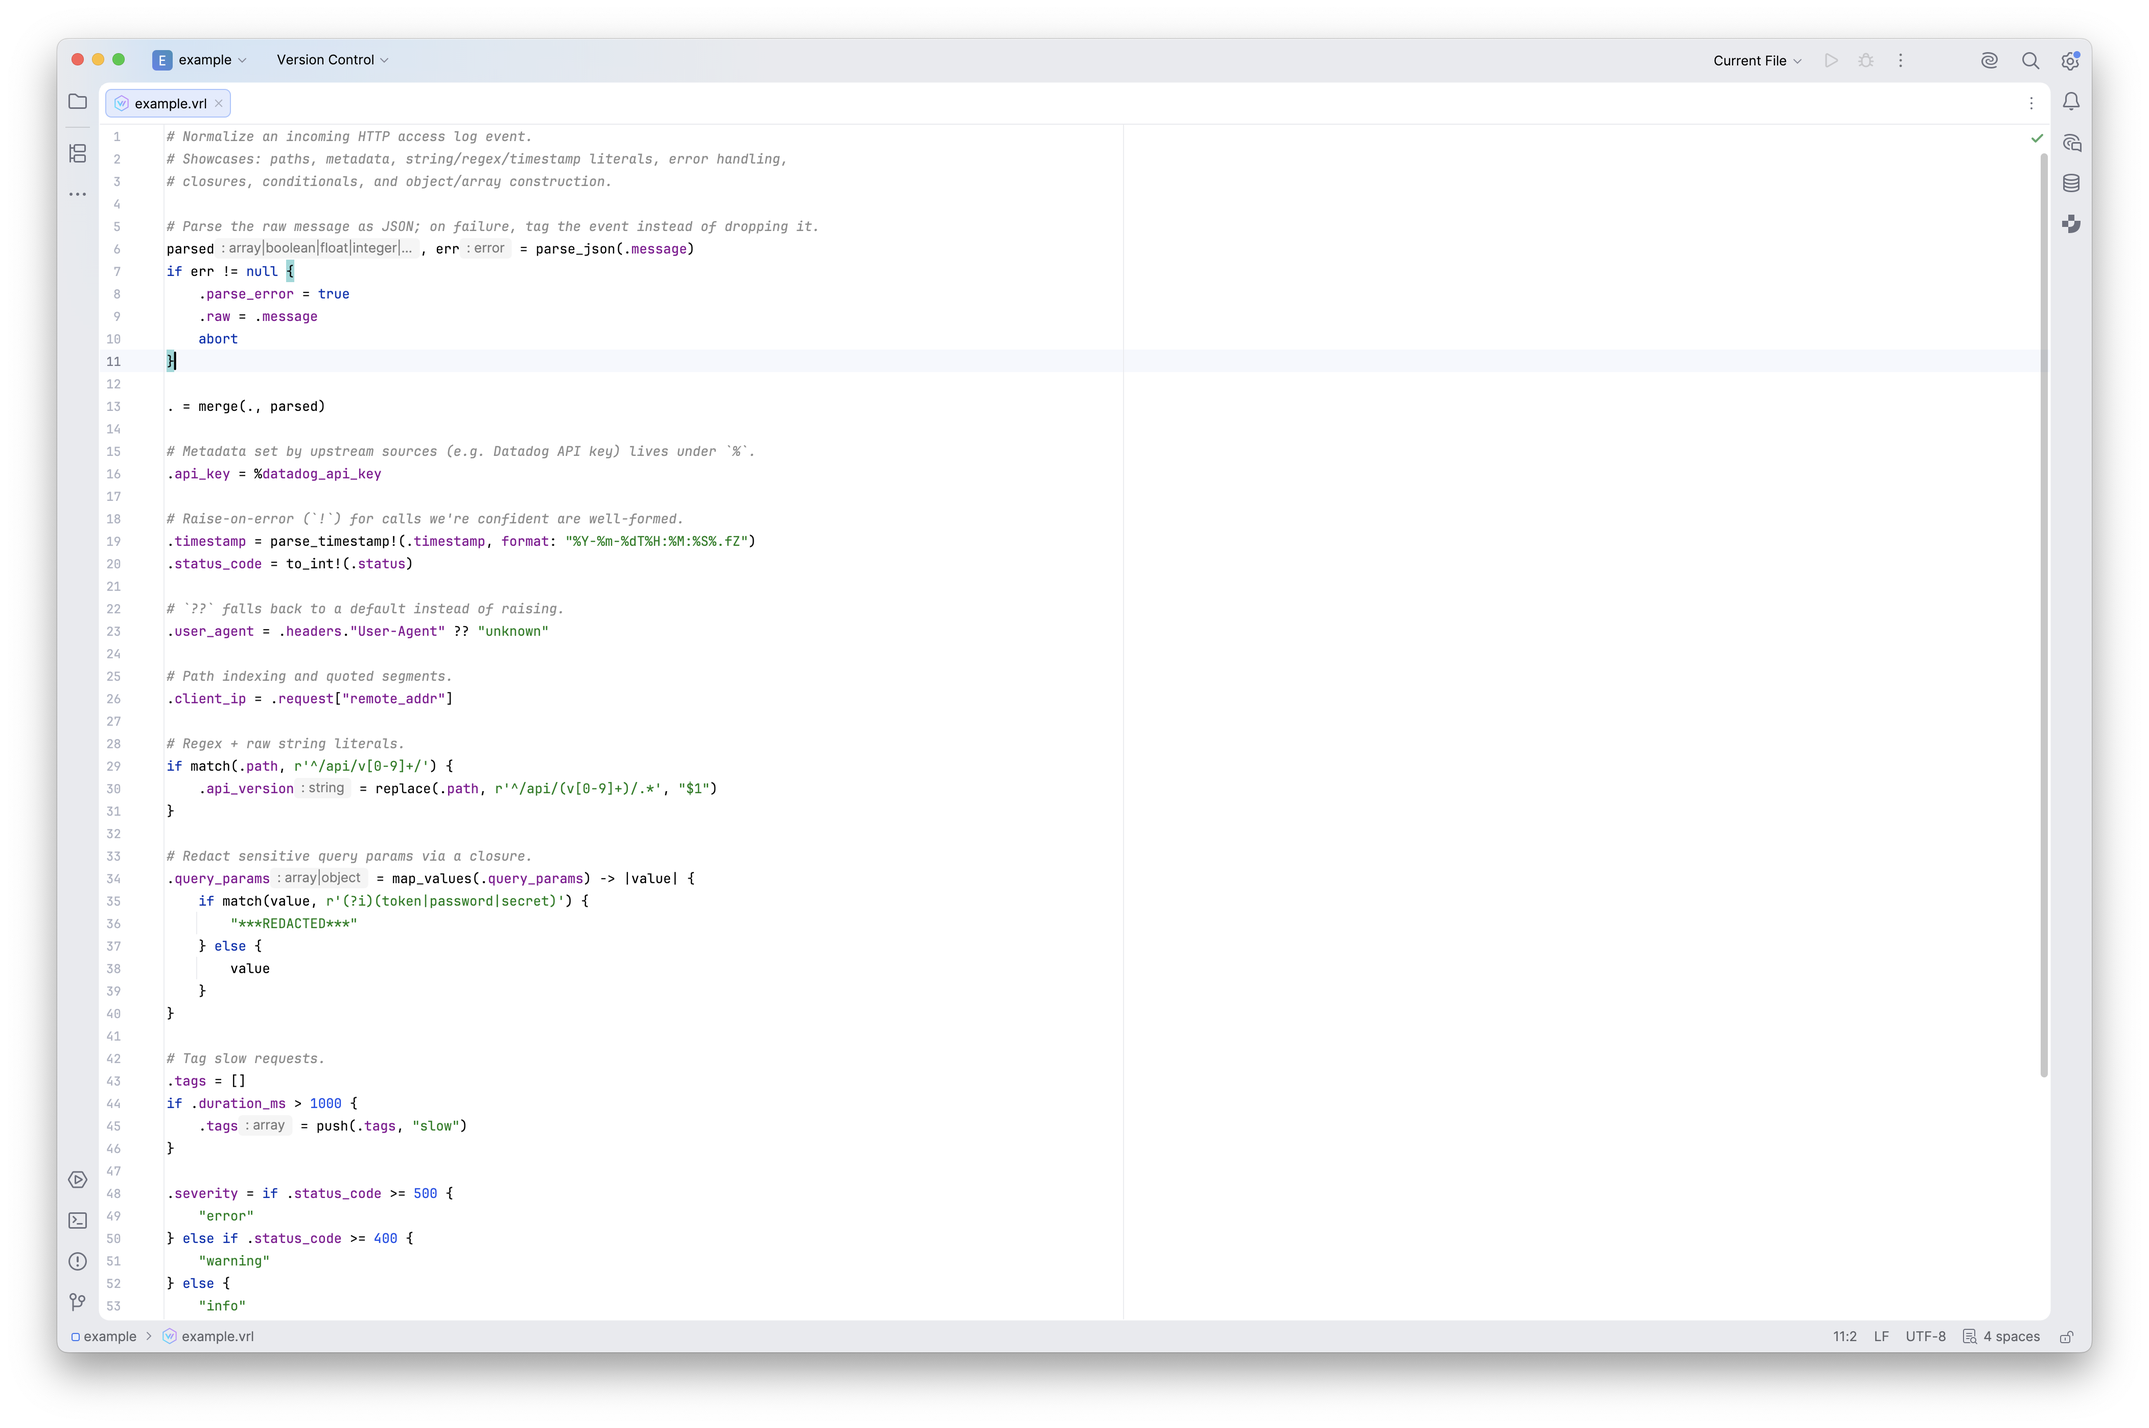
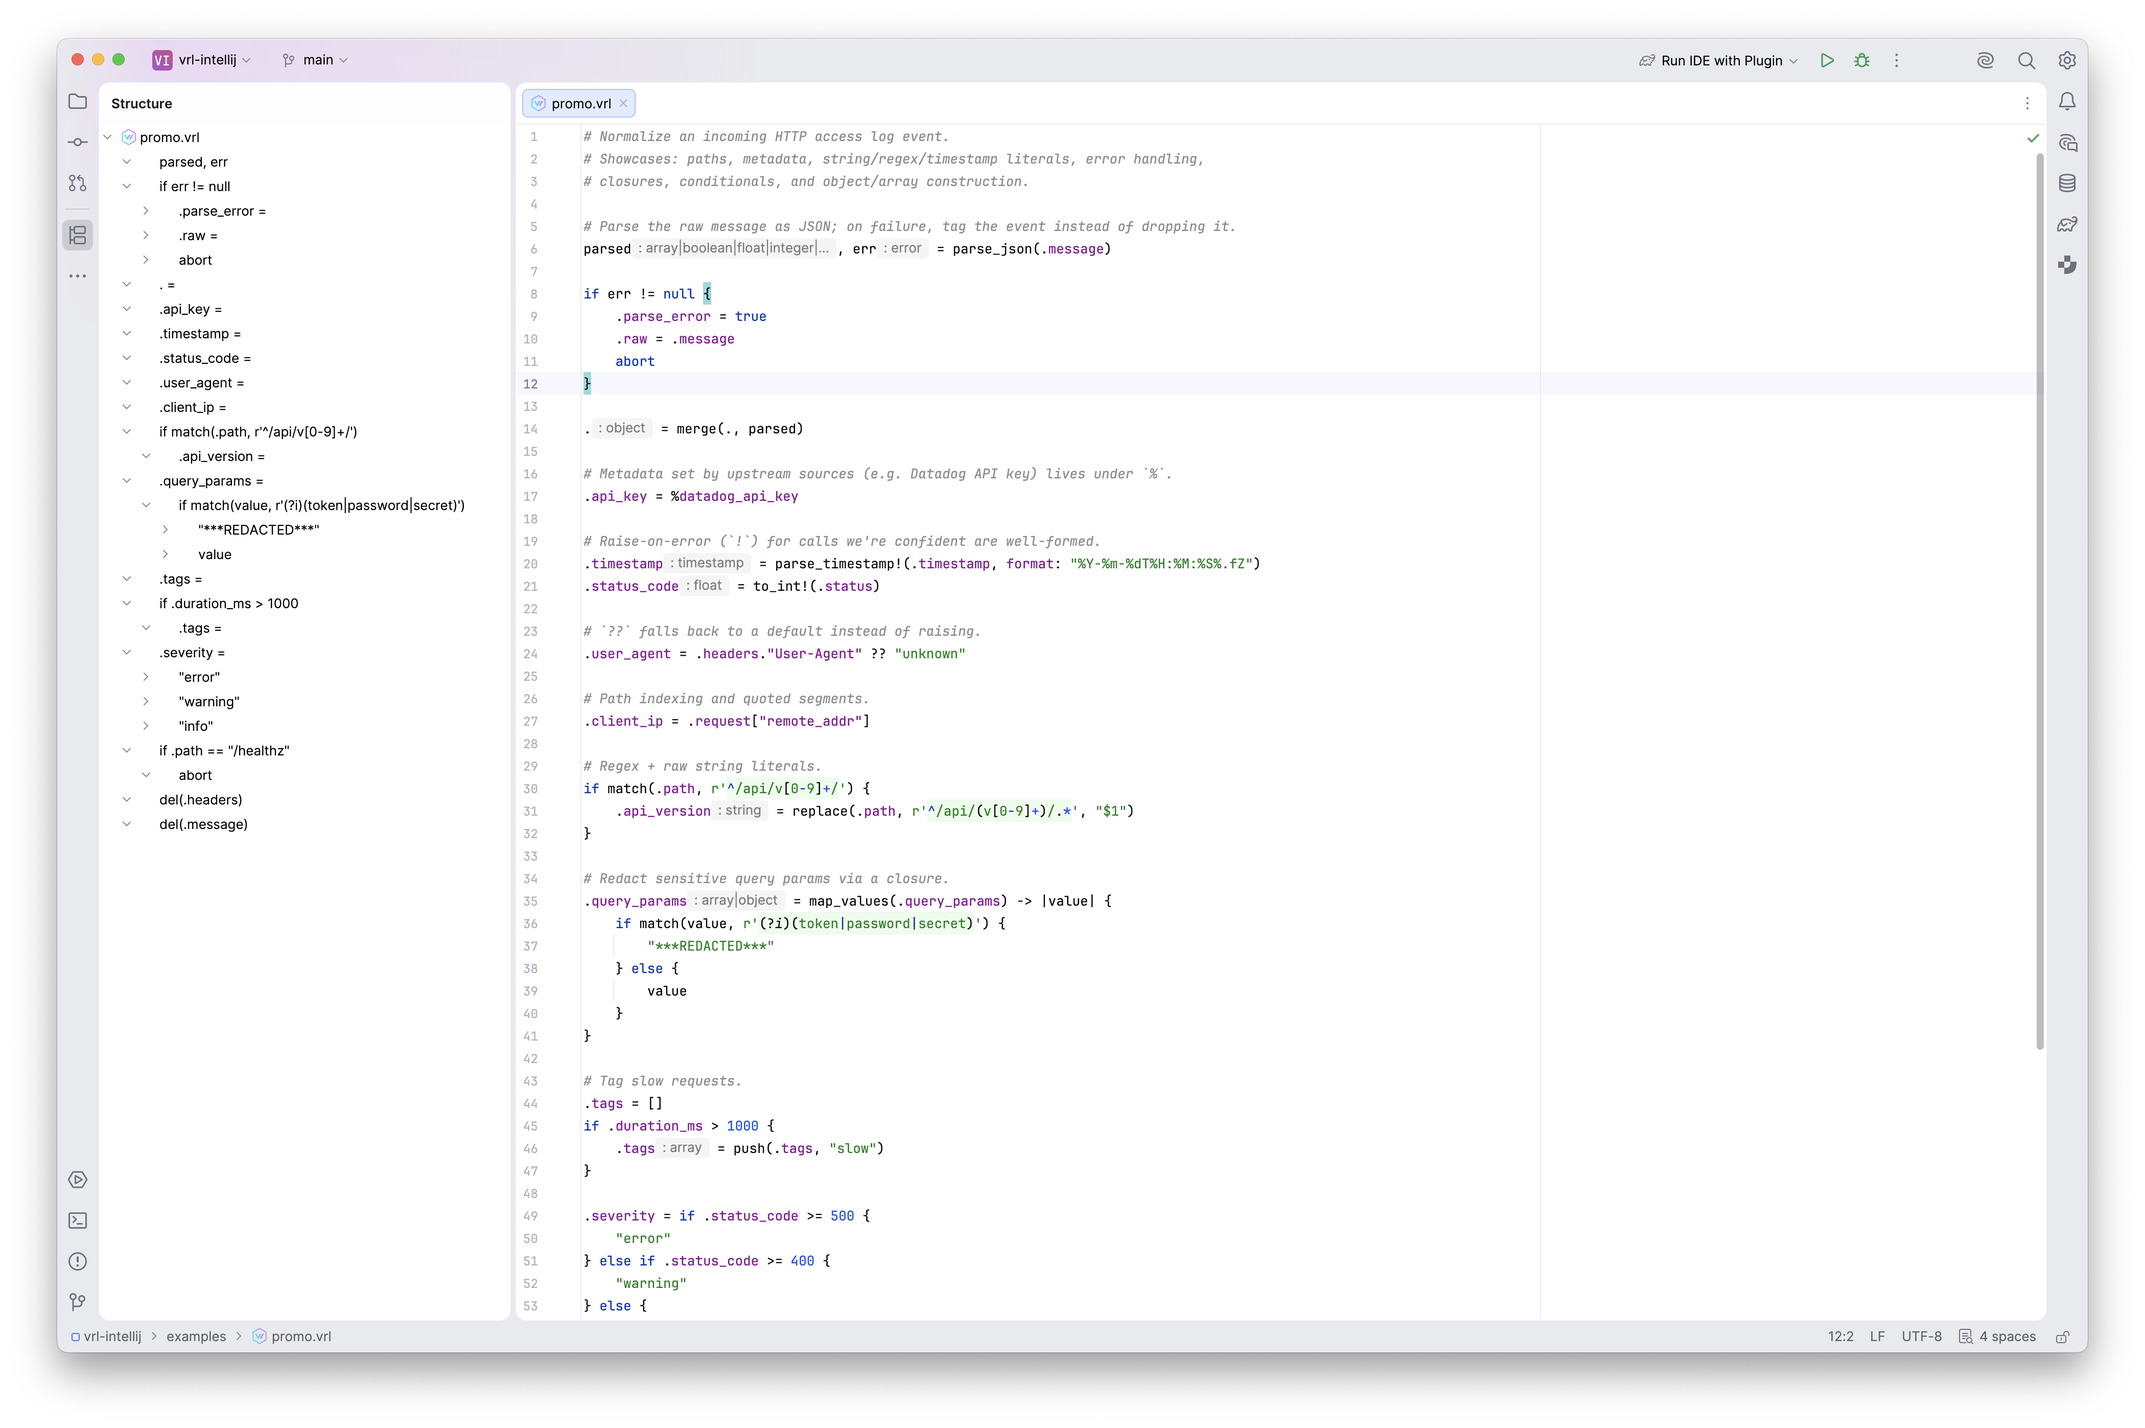
Inject VRL into Vector's TOML/YAML pipeline configs
Real-world VRL almost always lives inline inside a Vector config, not a
standalone .vrl file, so this automatically injects the VRL language into
the config keys that hold a VRL program:

- `source` under a remap transform (`type = "remap"`)
- `condition`, whenever given as a plain string (defaults to VRL per
  Vector's docs; the `{ type = "datadog_search", ... }` table form is
  left alone)
- `source` nested under a `vrl` codec table (`decoding.vrl.source` /
  `encoding.vrl.source`), matched via table-header, inline-table, and
  dotted-key forms

Declared as optional dependencies on the bundled TOML/YAML plugins so the
plugin degrades gracefully where either isn't installed.

diff --git a/src/main/kotlin/eu/bcosp/vrlintellij/injection/VRLTomlConfigInjector.kt b/src/main/kotlin/eu/bcosp/vrlintellij/injection/VRLTomlConfigInjector.kt
@@ -1,0 +1,90 @@
+package eu.bcosp.vrlintellij.injection
+
+import com.intellij.lang.injection.MultiHostInjector
+import com.intellij.lang.injection.MultiHostRegistrar
+import com.intellij.psi.PsiElement
+import com.intellij.psi.PsiLanguageInjectionHost
+import eu.bcosp.vrlintellij.VRL
+import org.toml.lang.psi.TomlInlineTable
+import org.toml.lang.psi.TomlKey
+import org.toml.lang.psi.TomlKeyValue
+import org.toml.lang.psi.TomlKeyValueOwner
+import org.toml.lang.psi.TomlLiteral
+import org.toml.lang.psi.TomlTable
+import org.toml.lang.psi.ext.TomlLiteralKind
+import org.toml.lang.psi.ext.kind
+
+/**
+ * Real-world VRL almost always lives inline inside a Vector pipeline config, not a standalone
+ * `.vrl` file - so this injects VRL directly into the config keys that hold a VRL program in
+ * Vector's TOML format (https://vector.dev/docs/reference/configuration/):
+ * - `source` under a `remap` transform (`type = "remap"`), e.g.
+ *   `[transforms.parse]\ntype = "remap"\nsource = ".foo = 1"`.
+ * - `condition`, whenever given as a plain string - per Vector's own docs this always defaults to
+ *   a VRL boolean expression (used by `filter`/`route`/swimlane conditions). The table form
+ *   (`condition = { type = "datadog_search", source = "..." }`) is deliberately left alone since
+ *   distinguishing its non-VRL condition types isn't worth the added complexity here.
+ * - `source` under a `vrl` codec table (`decoding.vrl.source` / `encoding.vrl.source`, e.g.
+ *   https://vector.dev/docs/reference/configuration/sources/http_server/#decoding.vrl.source) -
+ *   any source's `decoding` or any sink's `encoding` can be set to `codec = "vrl"`, which then
+ *   takes its own nested `vrl.source`. This is a distinct shape from the transform case: the
+ *   "this is VRL" signal is an ancestor table/key literally named `vrl`, not a sibling `type`.
+ *
+ * Declared as an optional dependency (`org.toml.lang`, see plugin.xml's `vrl-toml.xml` config
+ * file) since not every IDE this plugin runs in bundles TOML support.
+ */
+class VRLTomlConfigInjector : MultiHostInjector {
+
+    override fun getLanguagesToInject(registrar: MultiHostRegistrar, context: PsiElement) {
+        val keyValue = context as? TomlKeyValue ?: return
+        val host = keyValue.value as? TomlLiteral ?: return
+        if (host.kind !is TomlLiteralKind.String) return
+        if (!host.isValidHost) return
+
+        val isVrl = when (lastSegmentName(keyValue.key)) {
+            "source" -> siblingTypeIsRemap(keyValue) || isNestedUnderVrlCodec(keyValue)
+            "condition" -> true
+            else -> false
+        }
+        if (!isVrl) return
+
+        val range = (host as PsiLanguageInjectionHost).createLiteralTextEscaper().relevantTextRange
+        registrar.startInjecting(VRL)
+            .addPlace(null, null, host, range)
+            .doneInjecting()
+    }
+
+    private fun siblingTypeIsRemap(keyValue: TomlKeyValue): Boolean {
+        val owner = keyValue.parent as? TomlKeyValueOwner ?: return false
+        val typeLiteral = owner.entries.firstOrNull { lastSegmentName(it.key) == "type" }?.value as? TomlLiteral ?: return false
+        val kind = typeLiteral.kind as? TomlLiteralKind.String ?: return false
+        return kind.value == "remap"
+    }
+
+    private fun isNestedUnderVrlCodec(keyValue: TomlKeyValue): Boolean {
+        // Dotted-key form: `decoding.vrl.source = "..."` - the key itself ends in `vrl.source`.
+        val segments = keyValue.key.segments
+        if (segments.size >= 2 && segments[segments.size - 2].name == "vrl") return true
+
+        val owner = keyValue.parent
+        // Table-header form: `[sources.x.decoding.vrl]` with `source = "..."` as a direct entry.
+        if (owner is TomlTable) {
+            val headerSegments = owner.header.key?.segments
+            if (headerSegments?.lastOrNull()?.name == "vrl") return true
+        }
+        // Inline-table form: `vrl = { source = "...", ... }`.
+        if (owner is TomlInlineTable) {
+            val containingKeyValue = owner.parent as? TomlKeyValue
+            if (containingKeyValue != null && lastSegmentName(containingKeyValue.key) == "vrl") return true
+        }
+        return false
+    }
+
+    // [TomlKey.name] (from `org.toml.lang.psi.ext`) only resolves for a single-segment key and is
+    // null for a dotted one (`decoding.vrl.source`) - Vector configs use both styles for the same
+    // field, so every lookup here goes through the key's last segment instead, which is defined
+    // either way.
+    private fun lastSegmentName(key: TomlKey): String? = key.segments.lastOrNull()?.name
+
+    override fun elementsToInjectIn(): List<Class<out PsiElement>> = listOf(TomlKeyValue::class.java)
+}

diff --git a/src/test/kotlin/eu/bcosp/vrlintellij/injection/VRLTomlConfigInjectorTest.kt b/src/test/kotlin/eu/bcosp/vrlintellij/injection/VRLTomlConfigInjectorTest.kt
@@ -1,0 +1,95 @@
+package eu.bcosp.vrlintellij.injection
+
+import com.intellij.lang.injection.InjectedLanguageManager
+import com.intellij.testFramework.fixtures.BasePlatformTestCase
+import eu.bcosp.vrlintellij.VRL
+
+class VRLTomlConfigInjectorTest : BasePlatformTestCase() {
+
+    private fun injectedElementAt(text: String, needle: String) = run {
+        myFixture.configureByText("vector.toml", text)
+        val offset = myFixture.file.text.indexOf(needle)
+        InjectedLanguageManager.getInstance(myFixture.project).findInjectedElementAt(myFixture.file, offset)
+    }
+
+    fun testInjectsIntoRemapSource() {
+        val injected = injectedElementAt(
+            "[transforms.parse]\ntype = \"remap\"\nsource = \".foo = 1\"\n",
+            ".foo",
+        )
+        assertNotNull(injected)
+        assertEquals(VRL, injected!!.containingFile.language)
+    }
+
+    fun testDoesNotInjectSourceOfNonRemapTransform() {
+        val injected = injectedElementAt(
+            "[transforms.parse]\ntype = \"lua\"\nsource = \"print('hi')\"\n",
+            "print",
+        )
+        assertNull(injected)
+    }
+
+    fun testInjectsIntoPlainStringCondition() {
+        val injected = injectedElementAt(
+            "[transforms.drop]\ntype = \"filter\"\ncondition = \".status == 200\"\n",
+            ".status",
+        )
+        assertNotNull(injected)
+        assertEquals(VRL, injected!!.containingFile.language)
+    }
+
+    fun testDoesNotInjectTableFormCondition() {
+        val injected = injectedElementAt(
+            "[transforms.drop]\ntype = \"filter\"\ncondition = { type = \"datadog_search\", source = \"*stack\" }\n",
+            "*stack",
+        )
+        assertNull(injected)
+    }
+
+    fun testDoesNotInjectUnrelatedKeys() {
+        val injected = injectedElementAt(
+            "[transforms.parse]\ntype = \"remap\"\ntimezone = \"UTC\"\n",
+            "UTC",
+        )
+        assertNull(injected)
+    }
+
+    fun testInjectsIntoVrlCodecDecodingSourceTableHeaderForm() {
+        // The exact shape from https://vector.dev/docs/reference/configuration/sources/http_server/#decoding.vrl.source
+        val injected = injectedElementAt(
+            "[sources.my_source_id]\ntype = \"http_server\"\naddress = \"0.0.0.0:80\"\n\n" +
+                "[sources.my_source_id.decoding]\ncodec = \"vrl\"\n\n" +
+                "[sources.my_source_id.decoding.vrl]\nsource = \". |= parse_json!\"\ntimezone = \"America/New_York\"\n",
+            "parse_json",
+        )
+        assertNotNull(injected)
+        assertEquals(VRL, injected!!.containingFile.language)
+    }
+
+    fun testInjectsIntoVrlCodecSourceInlineTableForm() {
+        val injected = injectedElementAt(
+            "[sources.my_source_id.decoding]\ncodec = \"vrl\"\nvrl = { source = \". |= parse_json!\" }\n",
+            "parse_json",
+        )
+        assertNotNull(injected)
+        assertEquals(VRL, injected!!.containingFile.language)
+    }
+
+    fun testInjectsIntoVrlCodecSourceDottedKeyForm() {
+        val injected = injectedElementAt(
+            "[sources.my_source_id]\ndecoding.codec = \"vrl\"\ndecoding.vrl.source = \". |= parse_json!\"\n",
+            "parse_json",
+        )
+        assertNotNull(injected)
+        assertEquals(VRL, injected!!.containingFile.language)
+    }
+
+    fun testDoesNotInjectSourceOfNonVrlCodec() {
+        val injected = injectedElementAt(
+            "[sources.my_source_id.decoding]\ncodec = \"json\"\n\n" +
+                "[sources.my_source_id.decoding.json]\nsource = \"not vrl\"\n",
+            "not vrl",
+        )
+        assertNull(injected)
+    }
+}

diff --git a/src/test/kotlin/eu/bcosp/vrlintellij/injection/VRLYamlConfigInjectorTest.kt b/src/test/kotlin/eu/bcosp/vrlintellij/injection/VRLYamlConfigInjectorTest.kt
@@ -1,0 +1,85 @@
+package eu.bcosp.vrlintellij.injection
+
+import com.intellij.lang.injection.InjectedLanguageManager
+import com.intellij.testFramework.fixtures.BasePlatformTestCase
+import eu.bcosp.vrlintellij.VRL
+
+class VRLYamlConfigInjectorTest : BasePlatformTestCase() {
+
+    private fun injectedElementAt(text: String, needle: String) = run {
+        myFixture.configureByText("vector.yaml", text)
+        val offset = myFixture.file.text.indexOf(needle)
+        InjectedLanguageManager.getInstance(myFixture.project).findInjectedElementAt(myFixture.file, offset)
+    }
+
+    fun testInjectsIntoRemapSource() {
+        val injected = injectedElementAt(
+            "transforms:\n  parse:\n    type: remap\n    source: |\n      .foo = 1\n",
+            ".foo",
+        )
+        assertNotNull(injected)
+        assertEquals(VRL, injected!!.containingFile.language)
+    }
+
+    fun testDoesNotInjectSourceOfNonRemapTransform() {
+        val injected = injectedElementAt(
+            "transforms:\n  parse:\n    type: lua\n    source: |\n      print('hi')\n",
+            "print",
+        )
+        assertNull(injected)
+    }
+
+    fun testInjectsIntoPlainStringCondition() {
+        val injected = injectedElementAt(
+            "transforms:\n  drop:\n    type: filter\n    condition: \".status == 200\"\n",
+            ".status",
+        )
+        assertNotNull(injected)
+        assertEquals(VRL, injected!!.containingFile.language)
+    }
+
+    fun testDoesNotInjectMappingFormCondition() {
+        val injected = injectedElementAt(
+            "transforms:\n  drop:\n    type: filter\n    condition:\n      type: datadog_search\n      source: \"*stack\"\n",
+            "*stack",
+        )
+        assertNull(injected)
+    }
+
+    fun testDoesNotInjectUnrelatedKeys() {
+        val injected = injectedElementAt(
+            "transforms:\n  parse:\n    type: remap\n    timezone: UTC\n",
+            "UTC",
+        )
+        assertNull(injected)
+    }
+
+    fun testInjectsIntoVrlCodecDecodingSourceBlockMappingForm() {
+        // The exact shape from https://vector.dev/docs/reference/configuration/sources/http_server/#decoding.vrl.source
+        val injected = injectedElementAt(
+            "sources:\n  my_source_id:\n    type: http_server\n    address: 0.0.0.0:80\n" +
+                "    decoding:\n      codec: vrl\n      vrl:\n        source: \". |= parse_json!\"\n" +
+                "        timezone: America/New_York\n",
+            "parse_json",
+        )
+        assertNotNull(injected)
+        assertEquals(VRL, injected!!.containingFile.language)
+    }
+
+    fun testInjectsIntoVrlCodecSourceFlowMappingForm() {
+        val injected = injectedElementAt(
+            "decoding:\n  codec: vrl\n  vrl: { source: \". |= parse_json!\" }\n",
+            "parse_json",
+        )
+        assertNotNull(injected)
+        assertEquals(VRL, injected!!.containingFile.language)
+    }
+
+    fun testDoesNotInjectSourceOfNonVrlCodec() {
+        val injected = injectedElementAt(
+            "decoding:\n  codec: json\n  json:\n    source: \"not vrl\"\n",
+            "not vrl",
+        )
+        assertNull(injected)
+    }
+}

diff --git a/src/main/kotlin/eu/bcosp/vrlintellij/injection/VRLYamlConfigInjector.kt b/src/main/kotlin/eu/bcosp/vrlintellij/injection/VRLYamlConfigInjector.kt
@@ -1,0 +1,53 @@
+package eu.bcosp.vrlintellij.injection
+
+import com.intellij.lang.injection.MultiHostInjector
+import com.intellij.lang.injection.MultiHostRegistrar
+import com.intellij.psi.PsiElement
+import eu.bcosp.vrlintellij.VRL
+import org.jetbrains.yaml.psi.YAMLKeyValue
+import org.jetbrains.yaml.psi.YAMLScalar
+
+/**
+ * YAML counterpart to [VRLTomlConfigInjector] - same config keys
+ * (https://vector.dev/docs/reference/configuration/), same scoping rationale (including the
+ * `vrl`-codec `decoding.vrl.source`/`encoding.vrl.source` shape, e.g.
+ * https://vector.dev/docs/reference/configuration/sources/http_server/#decoding.vrl.source), just
+ * matched against the bundled YAML plugin's PSI instead of TOML's. Declared as an optional
+ * dependency (`org.jetbrains.plugins.yaml`, see plugin.xml's `vrl-yaml.xml` config file).
+ */
+class VRLYamlConfigInjector : MultiHostInjector {
+
+    override fun getLanguagesToInject(registrar: MultiHostRegistrar, context: PsiElement) {
+        val keyValue = context as? YAMLKeyValue ?: return
+        val host = keyValue.value as? YAMLScalar ?: return
+        if (!host.isValidHost) return
+
+        val isVrl = when (keyValue.keyText) {
+            "source" -> siblingTypeIsRemap(keyValue) || isNestedUnderVrlCodec(keyValue)
+            "condition" -> true
+            else -> false
+        }
+        if (!isVrl) return
+
+        val range = host.createLiteralTextEscaper().relevantTextRange
+        registrar.startInjecting(VRL)
+            .addPlace(null, null, host, range)
+            .doneInjecting()
+    }
+
+    private fun siblingTypeIsRemap(keyValue: YAMLKeyValue): Boolean {
+        val mapping = keyValue.parentMapping ?: return false
+        val typeValue = mapping.getKeyValueByKey("type")?.value as? YAMLScalar ?: return false
+        return typeValue.textValue == "remap"
+    }
+
+    // `decoding:\n  codec: vrl\n  vrl:\n    source: ...` (or the flow-mapping `vrl: { source: ... }`
+    // equivalent) - the enclosing mapping's own key must literally be named `vrl`.
+    private fun isNestedUnderVrlCodec(keyValue: YAMLKeyValue): Boolean {
+        val mapping = keyValue.parentMapping ?: return false
+        val containingKeyValue = mapping.parent as? YAMLKeyValue ?: return false
+        return containingKeyValue.keyText == "vrl"
+    }
+
+    override fun elementsToInjectIn(): List<Class<out PsiElement>> = listOf(YAMLKeyValue::class.java)
+}

diff --git a/README.md b/README.md
@@ -35,6 +35,11 @@ transformation language from [Vector](https://vector.dev). It isn't affiliated w
 - Language injection into string, raw string, and regex literals (*Alt+Enter → Inject language or
   reference*), plus automatic RegExp support (syntax highlighting and the "Check RegExp" intention)
   inside every `r'...'` regex literal
+- Automatic VRL injection into Vector's own TOML/YAML pipeline configs - `source` under a
+  `type = "remap"` transform, any plain-string `condition`, and `source` under a `vrl` codec
+  (`decoding.vrl.source` / `encoding.vrl.source`) - so a `.vrl` script written inline in
+  `vector.toml`/`vector.yaml` gets full editor support with no manual setup (needs the bundled
+  TOML and/or YAML plugin)
 - Postfix templates: `expr.iferr` expands to VRL's error-destructuring pattern
   (`target, err = expr; if err != null { }`), and `expr.raise` inserts the `!` raise-on-error
   suffix
